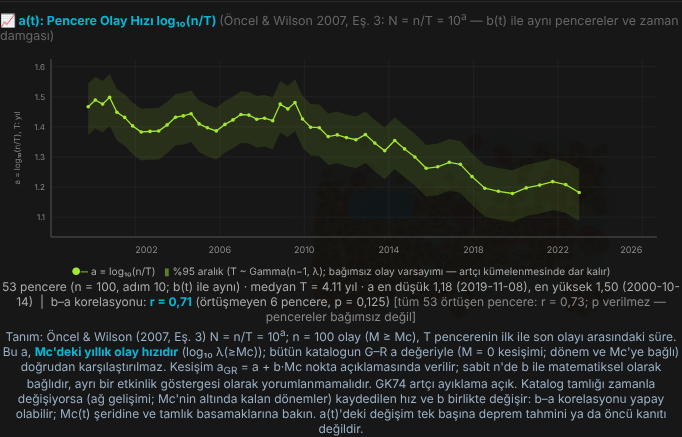
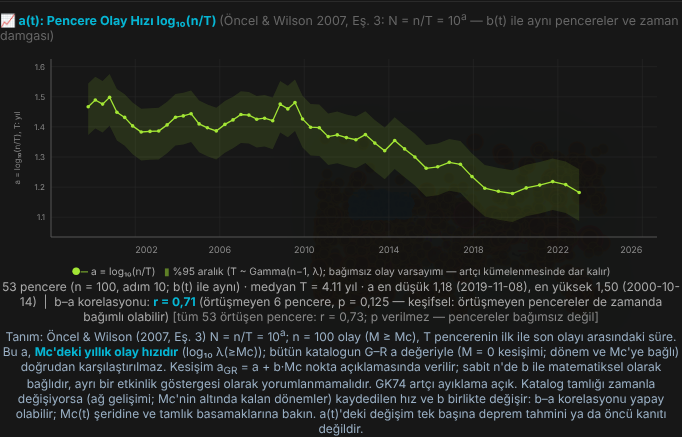
a(t): korelasyon p'si "keşifsel" etiketli (yalnız metin); örtüşmeyen pencerelerin gecikme-1 öz-ilişkisi ve Bartlett n_eff (Türkiye 1971–1997: p 3e-6 → ≈ 0,07); aralık ifadesi "Poisson varsayımı altında"
- RAPOR güncelleme 3: §1.2 aralık ifadesi, §4.1 öz-ilişki tablosu, §5 ölçek değişimi satırı; hesaplar değişmedi
- Kabul 23/23 (b(t) ve G–R önce = sonra), birim 15/15

Claude-Session: https://claude.ai/code/session_01UNMkcWFv5QgcQmvZTMC63m

Changed region(s): [[0.0308, 0.6545, 0.9853, 0.7437]]

diff --git a/analysis/a_zaman/kabul_a.js b/analysis/a_zaman/kabul_a.js
@@ -72,8 +72,15 @@ const SEN = {
     ok(pts.length === y.bN, `(2) ${k}: a(t) pencere sayısı ${pts.length} = b(t) pencere sayısı ${y.bN} (çizilen ${nOk}, karışık ${pts.length - nOk})`);
     if (!SEN[k].cs) { let d = 0; y.bSer.forEach((q, i) => { const a = Math.log10(y.ats.NW / ((q.t1 - q.t0) / YR)); d = Math.max(d, Math.abs(a - pts[i].a)); });
       ok(d < 1e-12, `(2) ${k}: a = log₁₀(n/T) bağımsız hesapla aynı (en büyük fark ${d.toExponential(1)}); T medyan ${pts.map(q => q.Tyr).sort((a, b) => a - b)[Math.floor(pts.length / 2)].toPrecision(3)} yıl`); }
-    ok(/Mc'deki yıllık olay hızıdır/.test(y.aTxt) && /a\s*GR/.test(y.aTxt.replace(/<[^>]+>/g, '')) && /tahmini ya da öncü kanıtı değildir/.test(y.aTxt) && /b–a korelasyonu yapay olabilir/.test(y.aTxt) && /p verilmez — pencereler bağımsız değil/.test(y.aTxt),
+    ok(/Mc'deki yıllık olay hızıdır/.test(y.aTxt) && /a\s*GR/.test(y.aTxt.replace(/<[^>]+>/g, '')) && /tahmini ya da öncü kanıtı değildir/.test(y.aTxt) && /b–a korelasyonu yapay olabilir/.test(y.aTxt) && /p verilmez — pencereler bağımsız değil/.test(y.aTxt) && /keşifsel/.test(y.aTxt),
       `(4) ${k}: tanım (Mc'deki hız), a_GR uyarısı, örtüşen r için p verilmemesi ve "tahmin değildir" ve tamlık kaynaklı yapay korelasyon notları var`);
+    { // Örtüşmeyen pencerelerin bağımsızlığı: segment içinde her ⌈n/adım⌉'ıncı pencere; a ve b'nin gecikme-1 öz-ilişkisi
+      const k = Math.ceil(y.ats.NW / y.ats.step), seg = []; let cur = null; y.ats.pts.forEach(q => { if (q.mixed) { cur = null; return; } if (!cur || cur.mc !== q.mc) { cur = { mc: q.mc, p: [] }; seg.push(cur); } cur.p.push(q); });
+      const ind = []; seg.forEach(sg => { const v = sg.p.filter((q, i) => i % k === 0); if (v.length >= 3) ind.push(v); });
+      const ac = f => { const x = [], z = []; ind.forEach(v => { for (let i = 1; i < v.length; i++) { x.push(f(v[i - 1])); z.push(f(v[i])); } }); const n = x.length; if (n < 4) return null;
+        const mx = x.reduce((a, c) => a + c, 0) / n, mz = z.reduce((a, c) => a + c, 0) / n; let sxz = 0, sxx = 0, szz = 0; for (let i = 0; i < n; i++) { sxz += (x[i] - mx) * (z[i] - mz); sxx += (x[i] - mx) ** 2; szz += (z[i] - mz) ** 2; } return { r: sxz / Math.sqrt(sxx * szz), n }; };
+      const aA = ac(q => q.a), aB = ac(q => q.b); y.ac = { a: aA, b: aB };
+      console.log(`     ${y === Y.tekMc ? 'tekMc' : y === Y.basamak ? 'basamak' : y === Y.marmara ? 'marmara' : 'marmara_gk74'}: örtüşmeyen pencerelerde gecikme-1 öz-ilişki: a ${aA ? aA.r.toFixed(2) + ' (' + aA.n + ' çift)' : '—'}, b ${aB ? aB.r.toFixed(2) + ' (' + aB.n + ' çift)' : '—'}`); }
     const rm = y.aTxt.match(/r = (−?-?[\d,]+) \(örtüşmeyen (\d+) pencere, p = ([^)]+)\)/); console.log(`     ${k}: ${rm ? `r(b, a) = ${rm[1]}, örtüşmeyen ${rm[2]} pencere, p = ${rm[3]}` : 'korelasyon yok'}; a aralığı ${Math.min(...pts.filter(q => !q.mixed).map(q => q.a)).toFixed(2)}–${Math.max(...pts.filter(q => !q.mixed).map(q => q.a)).toFixed(2)}`);
   }
   { const y = Y.basamak, mixed = y.ats.pts.filter(q => q.mixed).length, mcs = [...new Set(y.ats.pts.filter(q => !q.mixed).map(q => q.mc))];
@@ -86,7 +93,7 @@ const SEN = {
     ok(!/GK74 kapalı/.test(g.aTxt) && /GK74 artçı ayıklama açık/.test(g.aTxt) && g.ats.pts.length < a.ats.pts.length && mx(izG) !== null && mx(izG) < mx(izA) - 0.5,
       `(4) Marmara GK74 açık: pencere ${a.ats.pts.length} → ${g.ats.pts.length}; 1999–2000 en yüksek a ${mx(izA).toFixed(2)} → ${mx(izG).toFixed(2)} (artçı tepesi büyük ölçüde kalkıyor); tüm seri en yüksek a ${ta.a.toFixed(2)} (${new Date(ta.t).toISOString().slice(0, 10)}) → ${tg.a.toFixed(2)} (${new Date(tg.t).toISOString().slice(0, 10)}); r(b, a) metni: ${(g.aTxt.match(/r = [^(]+\([^)]*\)/) || ['—'])[0]}`); }
   ok(!O.hatalar.length && !Y.hatalar.length, `(5) Sayfa hatası yok (önce ${O.hatalar.length}, sonra ${Y.hatalar.length})` + (Y.hatalar.length ? ': ' + Y.hatalar.join(' | ') : ''));
-  const ozet = {}; for (const k of Object.keys(SEN)) ozet[k] = { metin: Y[k].aTxt, pencere: Y[k].ats.pts.length };
+  const ozet = {}; for (const k of Object.keys(SEN)) ozet[k] = { metin: Y[k].aTxt, pencere: Y[k].ats.pts.length, gecikme1_oz_iliski: Y[k].ac || null };
   fs.writeFileSync(path.join(__dirname, 'kabul_sonuc.json'), JSON.stringify({ senaryolar: SEN, sonuc: ozet, denetimler: kayit, ozet: { pass, fail } }, null, 1));
   console.log(`\n${fail ? 'KALDI' : 'GEÇTİ'}: ${pass} geçti, ${fail} kaldı`);
   await br.close(); srv.close(); process.exit(fail ? 1 : 0);

diff --git a/index.html b/index.html
@@ -2960,7 +2960,7 @@ function renderAvalueTS(series, N, Mc, cs, t0, t1, NW, STEP) {
   const decl = typeof regionDeclusterOn !== 'undefined' && regionDeclusterOn && regionRect;
   st.innerHTML = `<div style="font-size:.85em;color:#aaa"><span style="color:${COL}">●─</span> a = log₁₀(n/T) &nbsp; <span style="color:${COL};opacity:.5">▮</span> %95 aralık (T ~ Gamma(n−1, λ); bağımsız olay varsayımı — artçı kümelenmesinde dar kalır) ${nMixed ? `&nbsp; <span style="color:#f59e0b">╵</span> tamlık basamağı geçişindeki pencere (çizilmedi)` : ''}</div>` +
     `<div style="margin-top:2px">${ok.length} pencere (n = ${NW}, adım ${STEP}; b(t) ile aynı) · medyan T = ${med(ok.map(q => q.Tyr)).toPrecision(3)} yıl · a en düşük ${fmt(aMin.a)} (${dstr(aMin.t)}), en yüksek ${fmt(aMax.a)} (${dstr(aMax.t)})` +
-    (rInd ? ` &nbsp;|&nbsp; b–a korelasyonu: <b>r = ${rInd.r.toFixed(2).replace('.', ',')}</b> (örtüşmeyen ${rInd.n} pencere, p = ${rInd.p < 1e-3 ? rInd.p.toExponential(1).replace('.', ',') : rInd.p.toFixed(3).replace('.', ',')})` : ' &nbsp;|&nbsp; b–a korelasyonu: örtüşmeyen pencere sayısı yetersiz') +
+    (rInd ? ` &nbsp;|&nbsp; b–a korelasyonu: <b>r = ${rInd.r.toFixed(2).replace('.', ',')}</b> (örtüşmeyen ${rInd.n} pencere, p = ${rInd.p < 1e-3 ? rInd.p.toExponential(1).replace('.', ',') : rInd.p.toFixed(3).replace('.', ',')} — keşifsel: örtüşmeyen pencereler de zamanda bağımlı olabilir)` : ' &nbsp;|&nbsp; b–a korelasyonu: örtüşmeyen pencere sayısı yetersiz') +
     (rAll ? ` <span style="color:#888">[tüm ${rAll.n} örtüşen pencere: r = ${rAll.r.toFixed(2).replace('.', ',')}; p verilmez — pencereler bağımsız değil]</span>` : '') + `</div>` +
     `<div style="color:#9ab0c5;margin-top:2px">Tanım: Öncel &amp; Wilson (2007, Eş. 3) N = n/T = 10<sup>a</sup>; n = ${NW} olay (M ≥ Mc), T pencerenin ilk ile son olayı arasındaki süre. Bu a, <b>Mc'deki yıllık olay hızıdır</b> (log₁₀ λ(≥Mc)); bütün katalogun G–R a değeriyle (M = 0 kesişimi; dönem ve Mc'ye bağlı) doğrudan karşılaştırılmaz. ` +
       `Kesişim a<sub>GR</sub> = a + b·Mc nokta açıklamasında verilir; sabit n'de b ile matematiksel olarak bağlıdır, ayrı bir etkinlik göstergesi olarak yorumlanmamalıdır. ` +

diff --git a/analysis/a_zaman/RAPOR.md b/analysis/a_zaman/RAPOR.md
@@ -1,6 +1,11 @@
-# a(t) paneli — pencere olay hızı (2026-10-31, güncelleme 2)
+# a(t) paneli — pencere olay hızı (2026-10-31, güncelleme 3)
 
 Dal: `a-zaman-paneli`, `main` 89cacdb'den açıldı. `main`'e birleştirilmedi; bilimsel inceleme bekliyor.
+
+**Güncelleme 3'te eklenenler** (ChatGPT incelemesinin üç noktası):
+- **Aralık ifadesi:** "Kesin %95" yalnızca Poisson varsayımı altında geçerli. GK74 açıkken de kalan olayların bağımsız olduğu garanti edilmiyor (§1.2).
+- **Korelasyon:** p panelde "keşifsel" olarak etiketlendi. Örtüşmeyen pencerelerin gecikme-1 öz-ilişkisi ölçüldü ve Bartlett etkin örneklem düzeltmesi hesaplandı (§4.1). Bu yalnızca metin değişikliği; hesaplar aynı.
+- **Büyüklük ölçeği:** ileriki çalışmaya bırakıldı (§5).
 
 **Güncelleme 2'de eklenenler:**
 - %95 aralık yönteminin türetimi ve varsayımı (§1.2).
@@ -35,7 +40,7 @@ G–R kesişimi a_GR = a + b·Mc yalnızca nokta açıklamasında verilir; ayrı
 **Türetim:**
 1. Penceredeki n olay arasında n−1 bekleme süresi vardır. Bunlar bağımsızdır ve her biri Üstel(λ) dağılır.
 2. Toplamları T ~ Gamma(n−1, λ), dolayısıyla 2λT ~ χ²(2(n−1)).
-3. Buradan λ için kesin %95 aralığı:
+3. Buradan, Poisson varsayımı altında, λ için kesin %95 aralığı:
 
 ```
 λ ∈ [ χ²₀,₀₂₅(2(n−1)) / (2T) ,  χ²₀,₉₇₅(2(n−1)) / (2T) ]
@@ -47,12 +52,12 @@ a için aralık bu iki sınırın log₁₀'udur. n = 100'de aralığın yarı g
 
 **Nokta değeri:** Yayındaki tanıma uymak için n/T kullanılır. Yansız kestirici (n−1)/T'dir; n = 100'de fark 0,0044 log birimi, aralık genişliğinin yaklaşık %5'i.
 
-**Geçerlilik sınırı:** Artçı kümelenmesinde olaylar bağımsız değildir. Pencereden pencereye değişim Poisson'dan büyük olur ve aralık dar kalır (test 7: orta kümelenmede kapsama %78, güçlü kümelenmede %58). Panel bunu yazar. GK74 açıkken aralık daha anlamlıdır.
+**Geçerlilik sınırı:** Artçı kümelenmesinde olaylar bağımsız değildir. Pencereden pencereye değişim Poisson'dan büyük olur ve aralık dar kalır (test 7: orta kümelenmede kapsama %78, güçlü kümelenmede %58). Panel bunu yazar. GK74 açıkken artçıların büyük kısmı çıkar ve aralık varsayıma daha yakın olur. Ancak GK74 kalan olayların bağımsız olduğunu garanti etmez (arka plan kümelenmesi, ayıklama pencerelerinin sınırları). Bu yüzden aralık hiçbir durumda koşulsuz "kesin %95" olarak sunulmaz; her zaman "Poisson varsayımı altında" anlamında okunmalıdır.
 
 ### 1.3 Diğer kurallar
 
 - **Tamlık basamakları:** Mc'si karışık pencere (bir basamak geçişini içeren) çizilmez; eksende turuncu çentikle işaretlenir. Çizgi her Mc segmentinde kesilir ve segment Mc ile etiketlenir. Farklı Mc segmentlerinin a düzeyleri karşılaştırılamaz.
-- **b–a korelasyonu:** Yalnızca örtüşmeyen pencerelerle (her ⌈n/adım⌉'ıncı) Pearson r ve iki yönlü p (Fisher z) verilir; basamaklarda yalnızca aynı Mc segmenti içinde. Tüm örtüşen pencerelerin r'si bilgi olarak gösterilir, p verilmez (test 5).
+- **b–a korelasyonu:** Yalnızca örtüşmeyen pencerelerle (her ⌈n/adım⌉'ıncı) Pearson r ve iki yönlü p (Fisher z) verilir; basamaklarda yalnızca aynı Mc segmenti içinde. Tüm örtüşen pencerelerin r'si bilgi olarak gösterilir, p verilmez (test 5). p panelde **keşifsel** olarak etiketlenir: örtüşmeyen pencereler de zamanda bağımlı olabilir (§4.1).
 - **Metindeki uyarılar:** GK74 kapalıysa artçı tepeleri; tamlık değişirse yapay b–a korelasyonu; tahmin ya da öncü kanıtı değildir.
 
 ## 2. Değişiklik
@@ -79,7 +84,7 @@ Hepsi tohumlu üreteçle yapıldı, yani tekrarlanabilir. Köşeli parantezler, 
 
 Diğer birim testleri: 15/15 geçti (`test_fit_range.js` 37/37).
 
-## 4. Kabul testi (`kabul_a.js`, önce = main 89cacdb): 23/23
+## 4. Kabul testi (`kabul_a.js`, önce = main 89cacdb): 23/23 (p etiketinde "keşifsel" denetimi dahil)
 
 | Senaryo | Pencere | r(b, a), örtüşmeyen | a aralığı |
 |---|---|---|---|
@@ -98,6 +103,25 @@ Ekran görüntüleri:
 - `a_marmara.png`
 - `a_marmara_gk74.png`
 
+### 4.1 Örtüşmeyen pencerelerin bağımsızlığı
+
+ChatGPT'nin ikinci noktasını denetlemek için, aynı Mc segmentindeki ardışık örtüşmeyen pencerelerin a ve b serilerinde gecikme-1 öz-ilişkisi (ρ) ölçüldü (`kabul_a.js`, kabul_sonuc.json).
+
+Etkin örneklem: n_eff = n(1 − ρ_a·ρ_b)/(1 + ρ_a·ρ_b) (Bartlett 1935; iki öz-ilişkili seri arasındaki korelasyon için). Düzeltilmiş p, Fisher z ile n_eff kullanılarak hesaplandı.
+
+| Senaryo | n | ρ_a | ρ_b | r(b, a) | panel p (bağımsızlık varsayımı) | n_eff | düzeltilmiş p |
+|---|---|---|---|---|---|---|---|
+| Türkiye 1971–1997, tek Mc | 22 | 0,73 | 0,80 | 0,79 | 3e−6 | 5,8 | **≈ 0,07** |
+| Aynı, tamlık basamaklı | 8 | 0,60 | 0,62 | 0,65 | 0,083 | 3,7 | test edilemez (n_eff < 5) |
+| Marmara, GK74 kapalı | 13 | 0,51 | 0,62 | −0,05 | 0,86 | 6,8 | ≈ 0,92 |
+| Marmara, GK74 açık | 6 | 0,84 | 0,44 | 0,71 | 0,13 | 2,8 | test edilemez |
+
+**Sonuç:** Örtüşmeyen pencereler de belirgin biçimde öz-ilişkili; ρ = 0,44–0,84, yani yavaş değişen eğilimler var. Bağımsızlık varsayımıyla hesaplanan p iyimser kalıyor. Türkiye 1971–1997'deki p = 3e−6, düzeltmeyle ≈ 0,07'ye çıkıyor. Bu, §6'daki "tamlık kaynaklı yapay korelasyon" yorumuyla da tutarlı: iki seri birlikte bir eğilim izliyor.
+
+Paneldeki p bu yüzden keşifseldir.
+
+**Öneri (ayrı iş):** Panelde n_eff'i ve düzeltilmiş p'yi doğrudan göstermek ya da eğilimi çıkarılmış (birinci fark) serilerde korelasyon vermek. Bu bir hesap değişikliği olduğundan bu dala katılmadı.
+
 ## 5. a–b ilişkisini karıştırabilecek etkenler
 
 | Etken | Etkisi | Panelde nasıl ele alınıyor |
@@ -107,12 +131,13 @@ Ekran görüntüleri:
 | Tamlık değişimi | Mc'nin altında kalan dönemde kaydedilen hız ve b birlikte düşer; yapay pozitif korelasyon oluşur | Uyarı metni; tamlık basamaklarıyla segmentlere bölme; Türkiye 1971–1997'de r 0,79 → 0,65 (anlamlı değil) |
 | Mc basamakları | Farklı eşiklerin hızları karşılaştırılamaz | Karışık pencere çizilmez; korelasyon segment içinde |
 | Artçı dizileri | Hız tepeleri oluşur; aralık dar kalır (test 7) | GK74 uyarısı; Marmara'da GK74 açılınca İzmit tepesi 3,76 → 1,50 |
-| Büyüklük ölçeği / dönüşüm değişimi | Ölçek değişirse Mc'deki hız ve b kayar | Kapsam dışı; Mc(t) şeridi ve büyüklük türü tanısıyla birlikte değerlendirilmeli |
+| Örtüşmeyen pencerelerin öz-ilişkisi | Eğilimler p'yi iyimser yapar (§4.1: Türkiye 3e−6 → ≈ 0,07) | p "keşifsel" etiketli; n_eff düzeltmesi önerildi |
+| Büyüklük ölçeği / dönüşüm değişimi (ör. ISC → EMSC, Scordilis dönüşümü) | Ölçek değişirse Mc'deki hız ve b kayar; a(t) ve b(t) değişimleri doğrudan fiziksel değişim olarak yorumlanamaz | İleriki çalışma; Mc(t) şeridi ve büyüklük türü tanısıyla birlikte değerlendirilmeli |
 
 ## 6. Gözlemler (yorum değil)
 
 1. **Marmara 1999 İzmit:** GK74 kapalıyken belirgin bir hız tepesi görünüyor (a = 3,76; 18 Ağustos 1999). GK74 açıkken 1999–2000'deki en yüksek a 1,50; tepe büyük ölçüde artçılardan oluşuyor.
-2. **Türkiye 1971–1997:** Tek Mc'deki güçlü b–a korelasyonu (r = 0,79; p = 3e−6), tamlık basamaklarıyla zayıflıyor ve anlamlılığını yitiriyor (0,65; 8 pencere; p = 0,08). İstatistiksel olarak anlamlı görünen bir ilişki katalog özelliklerinden kaynaklanabilir.
+2. **Türkiye 1971–1997:** Tek Mc'deki güçlü b–a korelasyonu (r = 0,79; panelde p = 3e−6), öz-ilişki düzeltmesiyle anlamlılığını yitiriyor (n_eff ≈ 6, p ≈ 0,07). Tamlık basamaklarıyla da zayıflıyor (0,65; test edilemez). İstatistiksel olarak anlamlı görünen bir ilişki katalog özelliklerinden ve ortak eğilimden kaynaklanabilir.
 3. **Marmara, GK74 açık:** a, 2000'de yaklaşık 1,5'ten 2020'de yaklaşık 1,2'ye yavaşça iniyor. Nedeni bu çalışmada araştırılmadı. Olası nedenler: Mc(t) değişimi, GK74'ün büyük deprem sonrası uzun zaman pencereleri, büyüklük dönüşümü. Fiziksel bir sonuç olarak yorumlanmamalı.
 
-**Temel ilke:** a(t) üretim hızındaki değişimi, b(t) büyüklük dağılımındaki değişimi gösterir. İkisi aynı pencerelerden gelir; birlikte okunurken §5'teki etkenler ayrılmalıdır.
+**Temel ilke:** a(t) üretim hızındaki değişimi, b(t) büyüklük dağılımındaki değişimi gösterir. İkisi aynı pencerelerden gelir; birlikte okunurken §5'teki etkenler ayrılmalıdır. İkisinin birlikte değişmesi, tek başına deprem tehlikesinin arttığı anlamına gelmez.
